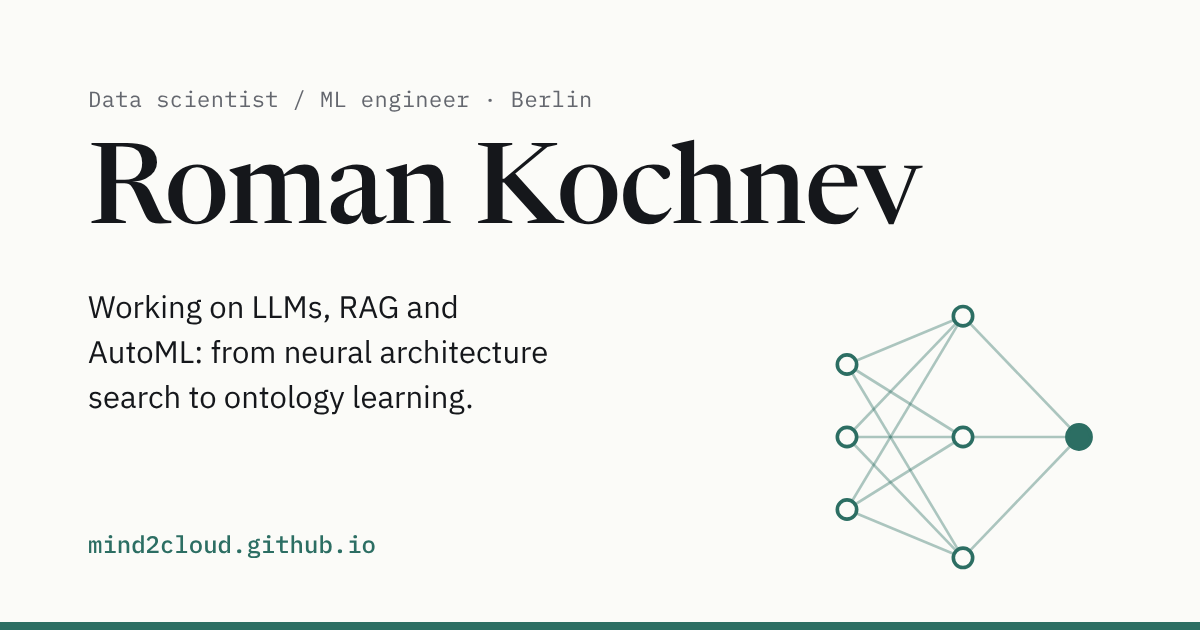
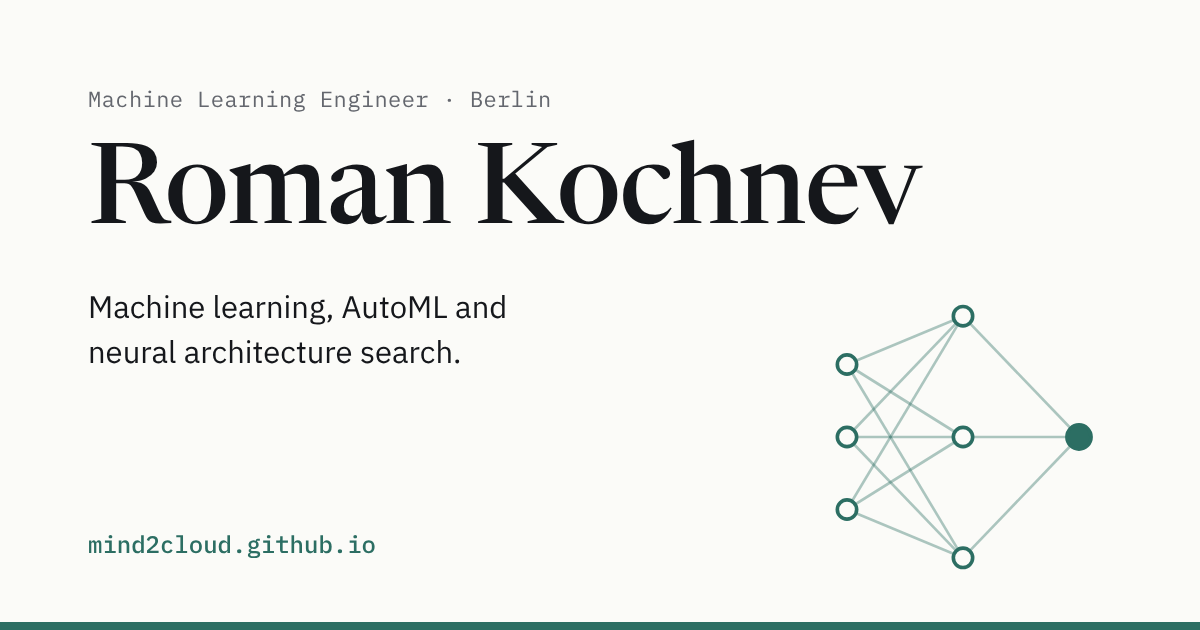
Updated info text, description and CV

Changed region(s): [[0.0617, 0.5429, 0.4625, 0.6635], [0.0617, 0.4524, 0.4317, 0.5127], [0.0617, 0.1508, 0.4933, 0.181]]

diff --git a/index.html b/index.html
@@ -4,13 +4,13 @@
   <meta charset="UTF-8">
   <meta name="viewport" content="width=device-width, initial-scale=1.0">
   <title>Roman Kochnev</title>
-  <meta name="description" content="Roman Kochnev — data scientist and ML engineer working on LLMs, RAG and AutoML. Publications at CVPRW, ICCVW and ISWC. Based in Berlin.">
+  <meta name="description" content="Roman Kochnev, machine learning engineer in Berlin. Works on AutoML, neural architecture search and applied machine learning, with papers at CVPRW, ICCVW and ISWC.">
   <link rel="canonical" href="https://mind2cloud.github.io/">
   <meta name="google-site-verification" content="NxUfLGEEUYlKrAU1ESajBY_Z7_6gycdKSLP4qb5-cAg" />
 
   <meta property="og:type" content="website">
-  <meta property="og:title" content="Roman Kochnev">
-  <meta property="og:description" content="Data scientist and ML engineer working on LLMs, RAG and AutoML. Publications at CVPRW, ICCVW and ISWC.">
+  <meta property="og:title" content="Roman Kochnev · Data Scientist / Machine Learning Engineer">
+  <meta property="og:description" content="Machine learning, AutoML and neural architecture search. Papers at CVPRW, ICCVW and ISWC.">
   <meta property="og:url" content="https://mind2cloud.github.io/">
   <meta property="og:image" content="https://mind2cloud.github.io/images/og-image.png">
   <meta property="og:image:width" content="1200">
@@ -43,11 +43,14 @@
         { "@type": "CollegeOrUniversity", "name": "National University of Science and Technology MISIS" }
       ],
       "knowsAbout": [
-        "Large language models",
-        "Retrieval-augmented generation",
+        "Machine learning",
         "AutoML",
         "Neural architecture search",
-        "Ontology learning"
+        "Deep learning",
+        "Hyperparameter optimization",
+        "Large language models",
+        "Retrieval-augmented generation",
+        "Knowledge graphs"
       ],
       "sameAs": [
         "https://www.linkedin.com/in/mind2cloud/",
@@ -139,8 +142,8 @@
     <div class="hero-text">
     <p class="eyebrow">Data Scientist / ML Engineer &middot; Berlin</p>
       <h1>Roman Kochnev</h1>
-      <p class="lede">Hi! I'm a data scientist with an applied math background and industry experience. I like problems where LLMs do more than chat: designing neural networks, reasoning over knowledge graphs, and automating the tedious parts of ML.</p>
-      <p class="lede">I recently finished my M.Sc. in Computer Science at the University of Würzburg and defended my thesis, <em>Enabling Symbolic Reasoning with Advanced RAG Systems</em>. I wrote it at the <a href="https://www.bosch.com/research/" target="_blank" rel="noopener">Bosch Center for Artificial Intelligence (BCAI)</a> in Renningen, Germany, under the supervision of <a href="https://dariastepanova.github.io/" target="_blank" rel="noopener">Dr. Daria Stepanova</a> and <a href="https://cuongcx.github.io/" target="_blank" rel="noopener">Dr. Cuong Xuan Chu</a>. I also work as a research assistant at the <a href="https://cvlai.net/" target="_blank" rel="noopener">Computer Vision Lab</a> in <a href="https://scholar.google.com/citations?user=u3MwH5kAAAAJ&hl=en" target="_blank" rel="noopener">Prof. Dr. Radu Timofte</a>'s group, mostly on AutoML and LLM-based neural architecture search.</p>
+      <p class="lede">Hi! I'm a data scientist and machine learning engineer with an applied math background. Before moving into research, I spent two years in banking and consulting, working on credit scoring, analytics and process automation.</p>
+      <p class="lede">I recently finished my M.Sc. in Computer Science at the University of Würzburg. I wrote my thesis at the <a href="https://www.bosch.com/research/" target="_blank" rel="noopener">Bosch Center for Artificial Intelligence (BCAI)</a> in Renningen, Germany, under the supervision of <a href="https://dariastepanova.github.io/" target="_blank" rel="noopener">Dr. Daria Stepanova</a> and <a href="https://cuongcx.github.io/" target="_blank" rel="noopener">Dr. Cuong Xuan Chu</a>. I also work as a research assistant at the <a href="https://cvlai.net/" target="_blank" rel="noopener">Computer Vision Lab</a> in <a href="https://scholar.google.com/citations?user=u3MwH5kAAAAJ&hl=en" target="_blank" rel="noopener">Prof. Dr. Radu Timofte</a>'s group, mostly on AutoML.</p>
 
       <ul class="links">
         <li><a href="mailto:romannkochnev@gmail.com"><span class="icon" aria-hidden="true"><img src="images/gmail.png" alt="" width="14" height="14"></span>Email</a></li>
@@ -244,31 +247,31 @@
       <div class="exp-what">
         <p class="exp-role">Data Science Researcher (Master's Thesis)</p>
         <p class="exp-org"><span class="org-logo" aria-hidden="true"><img src="images/bosch_vertical.png" alt=""></span>Bosch Center for Artificial Intelligence (BCAI), Renningen, Germany</p>
-        <p class="exp-desc">LLMs for ontology learning: developed APOLO, a prompt-optimization framework accepted at ISWC 2026; built GRAIL, a reasoning-focused QA benchmark for RAG and GraphRAG; designed OWL2Doc, a multi-agent pipeline for text-ontology data.</p>
+        <p class="exp-desc">Developed APOLO, a prompt-optimization framework for ontology learning, accepted at ISWC 2026. Built GRAIL, a reasoning-focused QA benchmark for RAG and GraphRAG. Designed OWL2Doc, a multi-agent pipeline for text-ontology data.</p>
       </div>
     </li>
     <li class="exp">
       <div class="exp-when">2025&ndash;present</div>
       <div class="exp-what">
         <p class="exp-role">Research Assistant (HiWi)</p>
-        <p class="exp-org"><span class="org-logo" aria-hidden="true"><img src="images/uni_wue.png" alt=""></span>Universität Würzburg, Würzburg, Germany</p>
-        <p class="exp-desc">AutoML with LLMs in the Computer Vision Lab: first author of NNGPT (CVPRW 2026); co-developer of the LEMUR dataset (LEMUR 2 paper, CVPRW 2026); first author of &ldquo;Optuna vs Code Llama&rdquo; (ICCVW 2025).</p>
+        <p class="exp-org"><span class="org-logo" aria-hidden="true"><img src="images/uni_wue.png" alt=""></span>Computer Vision Lab, University of Würzburg, Germany</p>
+        <p class="exp-desc">Developed NNGPT, an AutoML framework in which LLMs generate and tune neural networks (first author, CVPRW 2026). Co-developed the LEMUR neural network dataset (LEMUR 2 paper, CVPRW 2026). Compared LLM-based hyperparameter tuning with Optuna in "Optuna vs Code Llama" (first author, ICCVW 2025).</p>
       </div>
     </li>
     <li class="exp">
       <div class="exp-when">2022&ndash;2023</div>
       <div class="exp-what">
         <p class="exp-role">Software Developer and Analyst</p>
-        <p class="exp-org"><span class="org-logo" aria-hidden="true"><img src="images/sg.png" alt=""></span>ROSBANK, ex Société Générale Group, Moscow</p>
-        <p class="exp-desc">Built and maintained ML models for core banking use cases; delivered analyses and reports from closed internal data; mentored interns and junior colleagues.</p>
+        <p class="exp-org"><span class="org-logo" aria-hidden="true"><img src="images/sg.png" alt=""></span>ROSBANK, formerly Société Générale Group, Moscow</p>
+        <p class="exp-desc">Built and maintained credit scoring models. Automated lending processes and delivered analyses from closed internal data. Mentored interns and junior colleagues.</p>
       </div>
     </li>
     <li class="exp">
       <div class="exp-when">2021&ndash;2022</div>
       <div class="exp-what">
         <p class="exp-role">Data Analyst</p>
-        <p class="exp-org"><span class="org-logo" aria-hidden="true"><img src="images/glowbyte.png" alt=""></span>Glowbyte Consulting, Moscow</p>
-        <p class="exp-desc">Oracle PL/SQL development, Power BI dashboards, and A/B testing for top-tier banks and major food retail chains.</p>
+        <p class="exp-org"><span class="org-logo" aria-hidden="true"><img src="images/glowbyte.png" alt=""></span>GlowByte Consulting, Moscow</p>
+        <p class="exp-desc">Built Power BI dashboards, developed Oracle PL/SQL scripts and ran A/B tests for top-tier banks and major food retail chains.</p>
       </div>
     </li>
   </ul>
@@ -284,7 +287,7 @@
         <div class="exp-when">2023&ndash;2026</div>
         <div class="exp-what">
           <p class="exp-role">M.Sc. Computer Science</p>
-          <p class="exp-org">Julius&#8209;Maximilians&#8209;Universität Würzburg, Germany</p>
+          <p class="exp-org">Julius-Maximilians-Universität Würzburg, Germany</p>
           <p class="exp-desc">Thesis: <em>Enabling Symbolic Reasoning with Advanced RAG Systems</em>, written at the Bosch Center for Artificial Intelligence (BCAI) in Renningen, Germany.</p>
         </div>
       </li>
